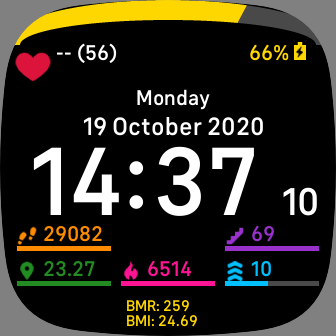
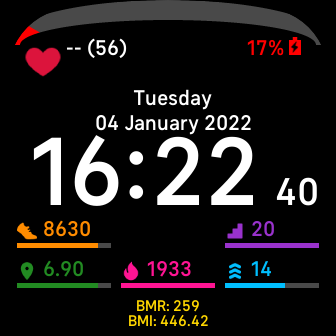
Update screenshots

diff --git a/README.md b/README.md
@@ -63,6 +63,7 @@ Or scan this QR Code for release version
 ![300x300-cutdown](https://github.com/BlythMeister/Fitbit-Overview-Face/blob/master/.images/300x300/3.cutdown.png?raw=true)
 ![300x300-charging](https://github.com/BlythMeister/Fitbit-Overview-Face/blob/master/.images/300x300/4.charging.png?raw=true)
 ![300x300-arc](https://github.com/BlythMeister/Fitbit-Overview-Face/blob/master/.images/300x300/5.arc.png?raw=true)
+![300x300-ring](https://github.com/BlythMeister/Fitbit-Overview-Face/blob/master/.images/300x300/6.ring.png?raw=true)
 
 ### Versa Lite Device
 
@@ -71,6 +72,7 @@ Or scan this QR Code for release version
 ![300x300-Lite-cutdown](https://github.com/BlythMeister/Fitbit-Overview-Face/blob/master/.images/300x300_Lite/3.cutdown.png?raw=true)
 ![300x300-Lite-charging](https://github.com/BlythMeister/Fitbit-Overview-Face/blob/master/.images/300x300_Lite/4.charging.png?raw=true)
 ![300x300-Lite-arc](https://github.com/BlythMeister/Fitbit-Overview-Face/blob/master/.images/300x300_Lite/5.arc.png?raw=true)
+![300x300-Lite-ring](https://github.com/BlythMeister/Fitbit-Overview-Face/blob/master/.images/300x300_Lite/6.ring.png?raw=true)
 
 ### Versa 3 & Sense Devices
 
@@ -79,6 +81,7 @@ Or scan this QR Code for release version
 ![336x336-cutdown](https://github.com/BlythMeister/Fitbit-Overview-Face/blob/master/.images/336x336/3.cutdown.png?raw=true)
 ![336x336-charging](https://github.com/BlythMeister/Fitbit-Overview-Face/blob/master/.images/336x336/4.charging.png?raw=true)
 ![336x336-arc](https://github.com/BlythMeister/Fitbit-Overview-Face/blob/master/.images/336x336/5.arc.png?raw=true)
+![336x336-ring](https://github.com/BlythMeister/Fitbit-Overview-Face/blob/master/.images/336x336/6.ring.png?raw=true)
 
 # How To Contribute
 
